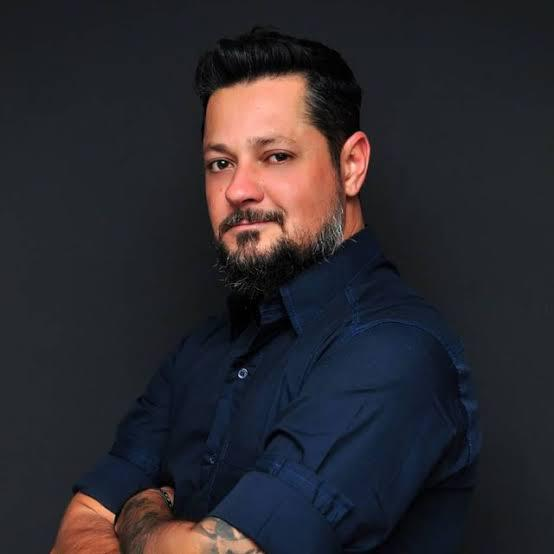
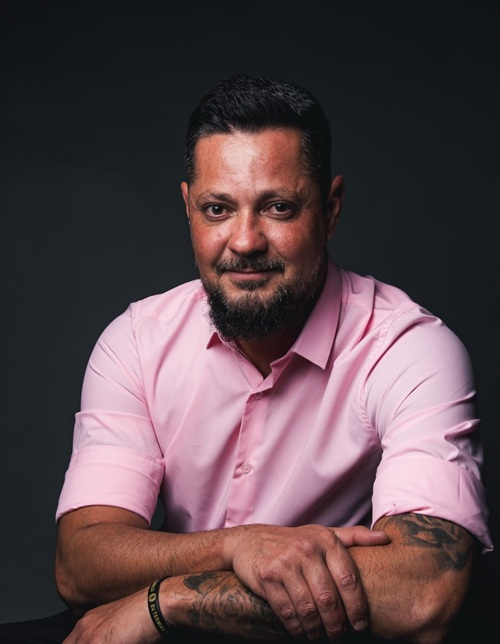
ajuste imagem palestrante e add link do botão CTA

diff --git a/src/components/sections/Location/index.tsx b/src/components/sections/Location/index.tsx
@@ -25,7 +25,8 @@ const Location = () => {
             <li>
               <strong>Endereço</strong>:{" "}
               <a
-                href="https://www.google.com/maps/place/R.+Oswaldo+Araújo,+100+-+Praia+do+Futuro,+Fortaleza+-+CE,+60055-110/@-3.728249,-38.525312,17z/data=!3m1!4b1!4m6!3m5!1s0x7c74852e23fffff:0x6d955ecb47c0a48b!8m2!3d-3.728249!4d-38.525312!16s%2Fg%2F11c484x1kg?entry=ttu&g_ep=EgoyMDI1MDIxMi4wIKXMDSoASAFQAw%3D%3D"
+                className={styles.link}
+                href="https://www.google.com/maps/place/Gran+Mareiro+Hotel/@-3.7396968,-38.453857,15z/data=!4m9!3m8!1s0x7c7464d784ca471:0x2401a6bfcd1dc08d!5m2!4m1!1i2!8m2!3d-3.7396968!4d-38.453857!16s%2Fg%2F11cs2x64rn?entry=ttu&g_ep=EgoyMDI1MDYxMS4wIKXMDSoASAFQAw%3D%3D"
                 target="_blank"
               >
                 Rua Oswaldo Araújo, 100 – Praia do Futuro – Fortaleza – CE.
@@ -67,7 +68,13 @@ const Location = () => {
             </li>
           </ul>
 
-          <ButtonPrimary data-button-width="full">Comprar agora</ButtonPrimary>
+          <ButtonPrimary
+            data-button-width="full"
+            link="https://www.sympla.com.br/evento/conexao-ragazzi/2999636"
+            target={true}
+          >
+            Comprar agora
+          </ButtonPrimary>
         </div>
         <div className={styles.map}>
           <iframe

diff --git a/src/components/sections/Header/index.tsx b/src/components/sections/Header/index.tsx
@@ -2,7 +2,7 @@ import styles from "./header.module.css";
 import ButtonPrimary from "../../shared/ButtonPrimary";
 import Section from "../../shared/Section";
 
-import { MdOutlinePix } from "react-icons/md";
+// import { MdOutlinePix } from "react-icons/md";
 
 import logo from "../../../assets/images/logos/conexao.png";
 
@@ -27,10 +27,15 @@ const Header = () => {
           </p>
           {/* <strong>12 de Julho das 8:30h às 16:30h</strong> */}
           <div className={styles.buttons}>
-            <ButtonPrimary icon={<MdOutlinePix />}>Comprar pix</ButtonPrimary>
-            <ButtonPrimary data-button-color="secondary">
+            <ButtonPrimary
+              link="https://www.sympla.com.br/evento/conexao-ragazzi/2999636"
+              target={true}
+            >
               Comprar agora
             </ButtonPrimary>
+            {/* <ButtonPrimary data-button-color="secondary">
+              Comprar agora
+            </ButtonPrimary> */}
           </div>
         </div>
       </div>

diff --git a/src/components/sections/Speakers/index.tsx b/src/components/sections/Speakers/index.tsx
@@ -3,6 +3,7 @@ import styles from "./speakers.module.css";
 import Title from "../../shared/Title";
 import Speaker from "../../templates/Speaker";
 import CaroselSimple from "../../shared/CaroselSimple";
+import ButtonPrimary from "../../shared/ButtonPrimary";
 
 import danielRagazzi from "../../../assets/images/speakers/daniel-ragazzi.jpeg";
 import fabianoRebello from "../../../assets/images/speakers/fabiano-rebello.jpeg";
@@ -82,6 +83,15 @@ export default function Speakers() {
       <Title>Palestrantes</Title>
       <div className={styles.container} data-aos="zoom-in">
         <CaroselSimple listSlides={speakers} slidesPerViewPropsMobile={1} />
+      </div>
+      <div className={styles.button}>
+        <ButtonPrimary
+          data-button-color="primary"
+          link="https://www.sympla.com.br/evento/conexao-ragazzi/2999636"
+          target={true}
+        >
+          comprar agora
+        </ButtonPrimary>
       </div>
     </Section>
   );

diff --git a/src/components/sections/AboutEvent/index.tsx b/src/components/sections/AboutEvent/index.tsx
@@ -2,7 +2,7 @@ import styles from "./aboutEvent.module.css";
 import Section from "../../shared/Section";
 import Title from "../../shared/Title";
 import ButtonPrimary from "../../shared/ButtonPrimary";
-import { FaWhatsapp } from "react-icons/fa";
+// import { FaWhatsapp } from "react-icons/fa";
 
 export default function AboutEvent() {
   return (
@@ -62,8 +62,12 @@ export default function AboutEvent() {
           </div>
         </div>
         <div className={styles.button}>
-          <ButtonPrimary data-button-color="primary" icon={<FaWhatsapp />}>
-            Participar do evento
+          <ButtonPrimary
+            data-button-color="primary"
+            link="https://www.sympla.com.br/evento/conexao-ragazzi/2999636"
+            target={true}
+          >
+            comprar agora
           </ButtonPrimary>
         </div>
       </div>

diff --git a/src/components/shared/ButtonPrimary/index.tsx b/src/components/shared/ButtonPrimary/index.tsx
@@ -6,6 +6,7 @@ interface ButtonPrimaryProps {
   link?: string;
   icon?: React.ReactNode;
   onClick?: () => void;
+  target?: boolean;
 }
 
 const ButtonPrimary = ({
@@ -13,12 +14,18 @@ const ButtonPrimary = ({
   onClick,
   link,
   icon,
+  target,
   ...args
 }: ButtonPrimaryProps) => {
   return (
     <>
       {link ? (
-        <a href={link} {...args} className={styles.buttonPrimary}>
+        <a
+          href={link}
+          target={target ? "_blank" : "_self"}
+          {...args}
+          className={styles.buttonPrimary}
+        >
           {children}{" "}
           <div className={styles.icon}>
             {icon ? icon : <IoMdArrowForward />}

diff --git a/src/components/templates/Speaker/speaker.module.css b/src/components/templates/Speaker/speaker.module.css
@@ -5,14 +5,14 @@
   justify-content: center;
   padding: var(--spacing-lg) var(--spacing-md);
   background: var(--tertiary-color-transparent);
-  border-radius: var(--border-radius-lg);
+  border-radius: var(--border-radius-xl);
   border: 1px solid var(--border-color);
   margin: var(--spacing-md) 0;
 }
 
 .image {
   width: 100%;
-  height: 250px;
+  height: 280px;
   border-radius: var(--border-radius-lg);
   overflow: hidden;
   border: 1px solid var(--border-color);

diff --git a/src/components/sections/Benefits/index.tsx b/src/components/sections/Benefits/index.tsx
@@ -94,7 +94,12 @@ export default function Benefits() {
         <CaroselCoverFlow listSlides={listBenefits} />
       </div>
       <div className={styles.button}>
-        <ButtonPrimary>Comprar agora</ButtonPrimary>
+        <ButtonPrimary
+          link="https://www.sympla.com.br/evento/conexao-ragazzi/2999636"
+          target={true}
+        >
+          Comprar agora
+        </ButtonPrimary>
       </div>
     </Section>
   );

diff --git a/src/components/sections/TopBar/index.tsx b/src/components/sections/TopBar/index.tsx
@@ -5,7 +5,13 @@ const TopBar = () => {
   return (
     <div className={styles.topBar}>
       <p>Não perca essa oportunidade!</p>
-      <ButtonPrimary data-button-color="primary">participar</ButtonPrimary>
+      <ButtonPrimary
+        data-button-color="primary"
+        link="https://www.sympla.com.br/evento/conexao-ragazzi/2999636"
+        target={true}
+      >
+        participar
+      </ButtonPrimary>
     </div>
   );
 };

diff --git a/src/components/shared/CaroselScrollInfinit/index.tsx b/src/components/shared/CaroselScrollInfinit/index.tsx
@@ -37,7 +37,12 @@ const CarouselScrollInfinit = ({ listSlides }: CarouselScrollInfinitProps) => {
         </div>
       </div>
       <div className={styles.button}>
-        <ButtonPrimary>Ver todos</ButtonPrimary>
+        <ButtonPrimary
+          link="https://www.sympla.com.br/evento/conexao-ragazzi/2999636"
+          target={true}
+        >
+          Comprar agora
+        </ButtonPrimary>
       </div>
     </Section>
   );

diff --git a/src/components/sections/Location/location.module.css b/src/components/sections/Location/location.module.css
@@ -31,13 +31,12 @@
   margin-bottom: var(--spacing-sm);
 }
 
-.text a {
+.text .link {
   color: var(--warning-color);
   transition: var(--transition-normal);
 }
 
-.text a:hover {
-  color: var(--warning-color-hover);
+.text .link:hover {
   text-decoration: underline;
 }
 
@@ -52,7 +51,7 @@
 
 .map {
   flex: 1 1 50%;
-  height: 400px;
+  height: 450px;
 }
 
 .map iframe {

diff --git a/src/components/sections/Speakers/speakers.module.css b/src/components/sections/Speakers/speakers.module.css
@@ -1,0 +1,5 @@
+.button {
+  display: flex;
+  justify-content: center;
+  margin-top: var(--spacing-sm);
+}
